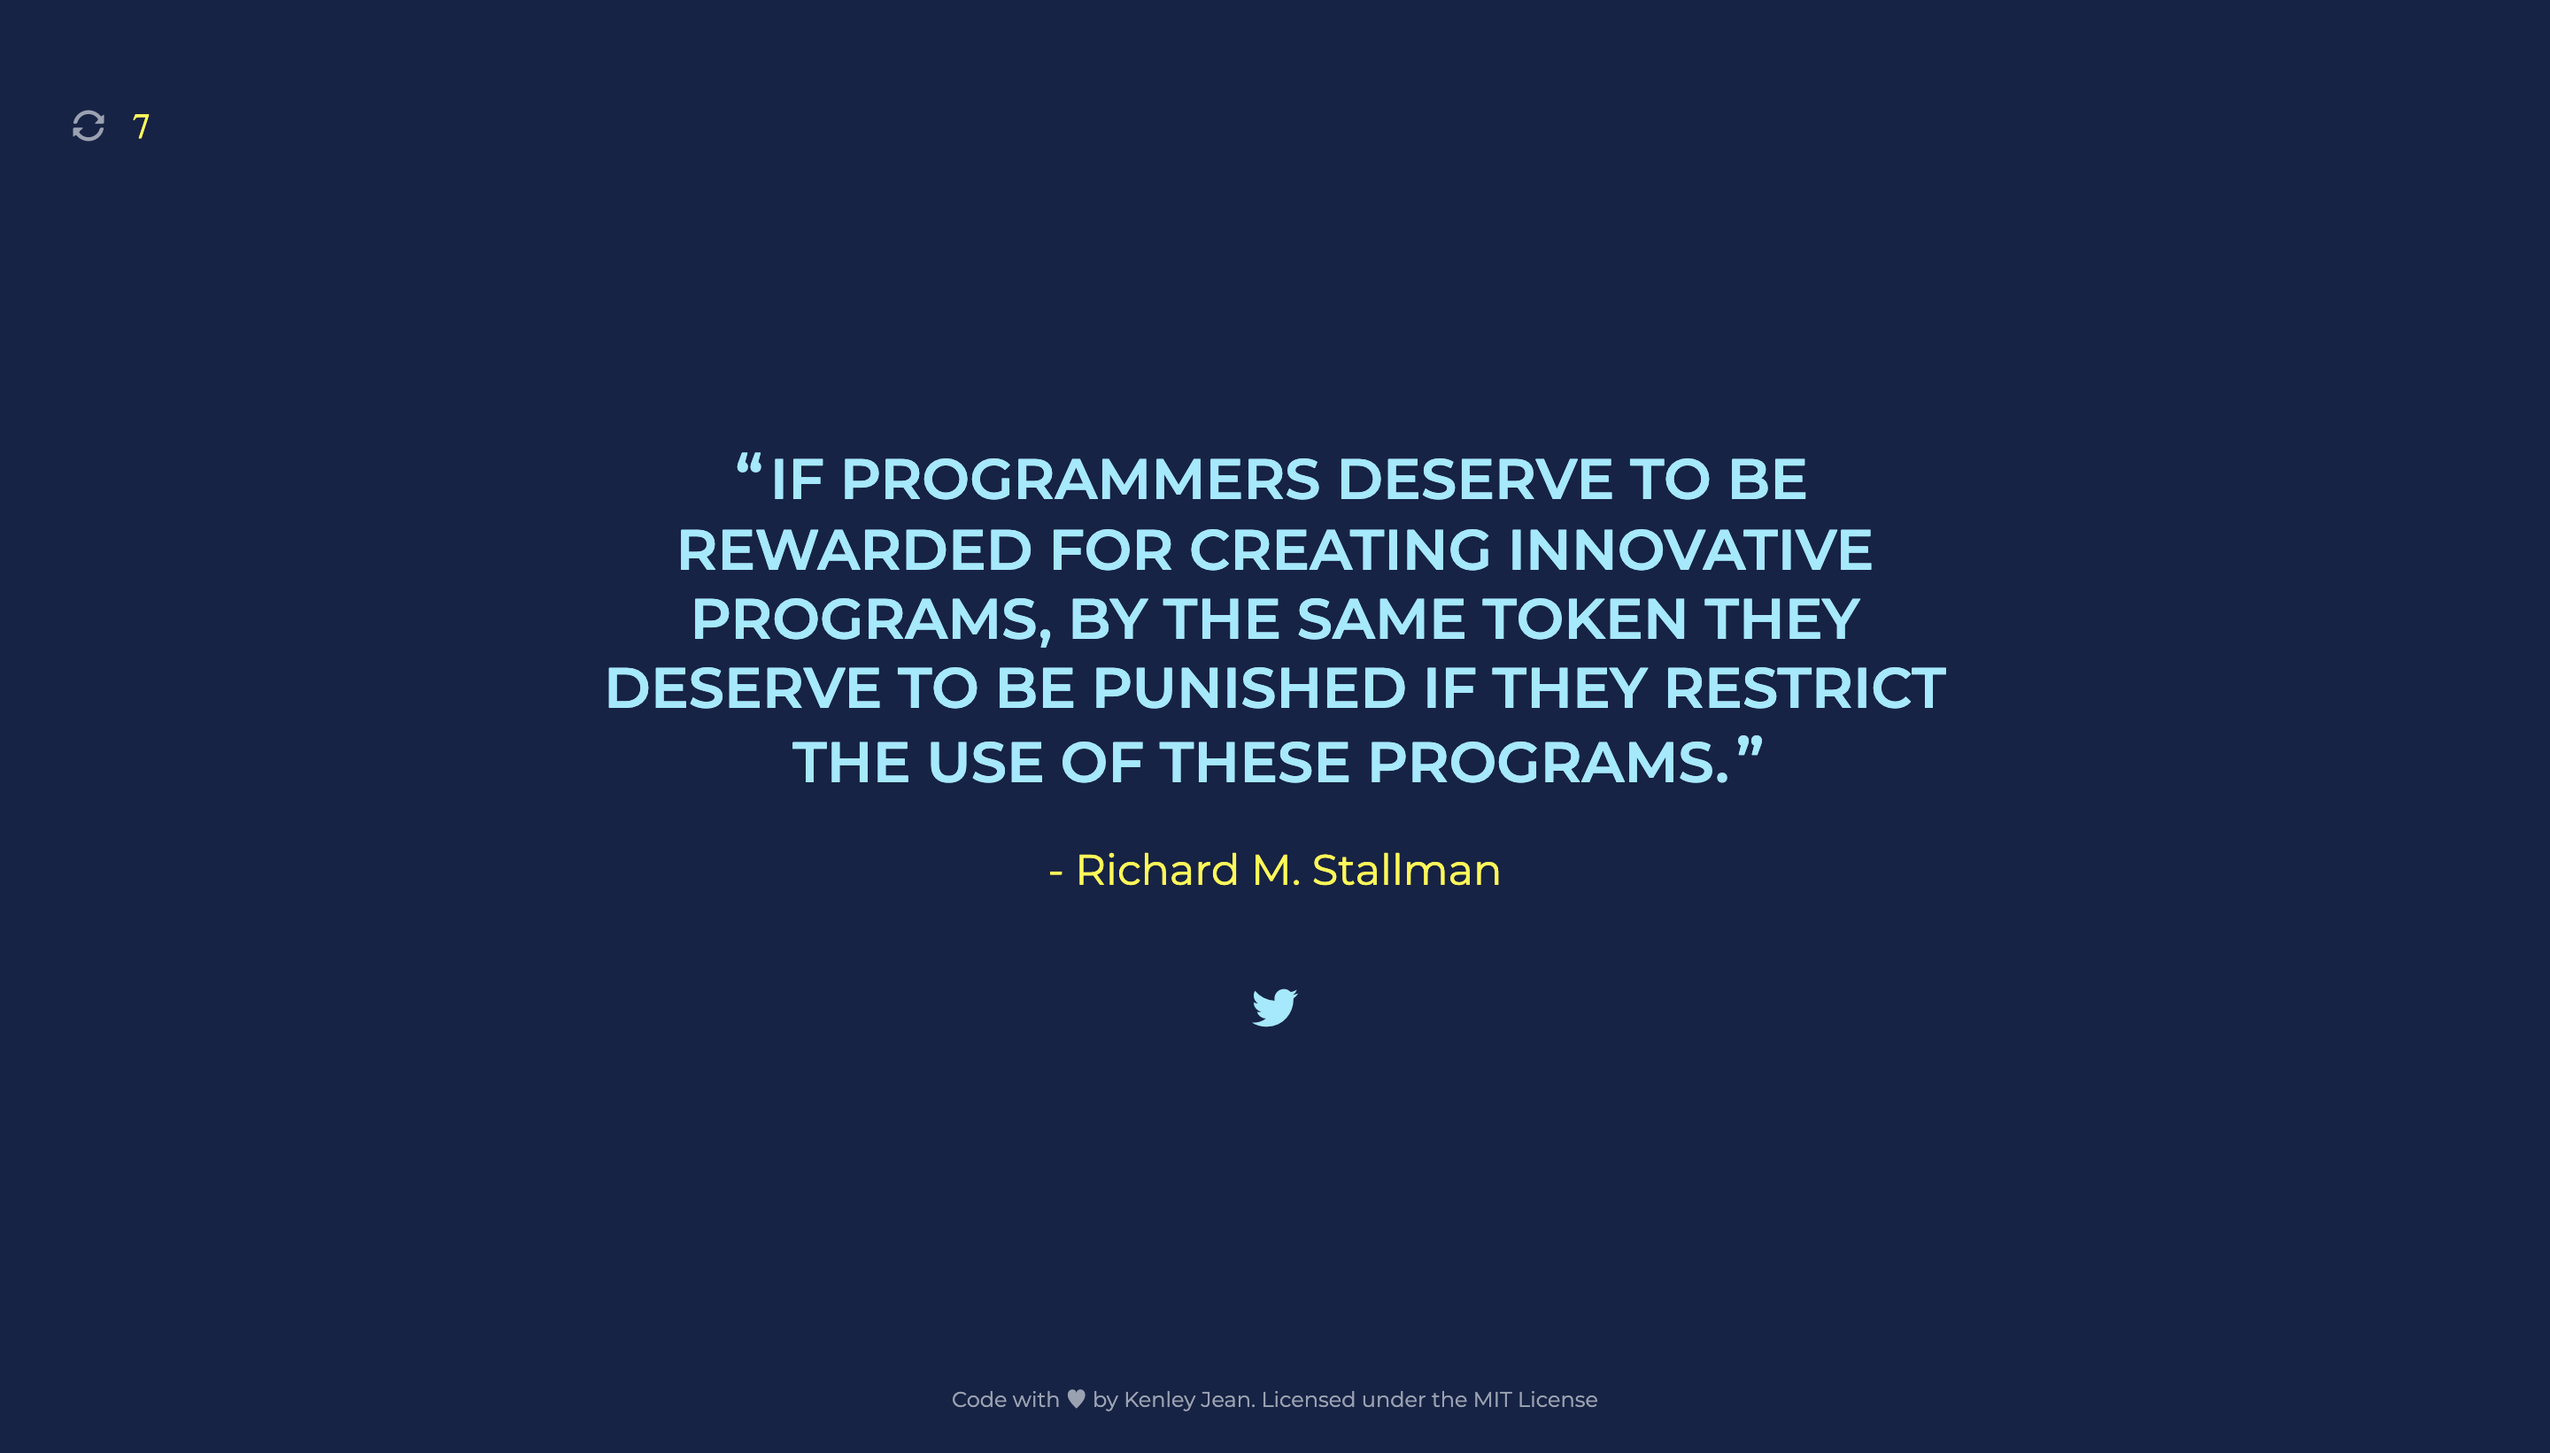
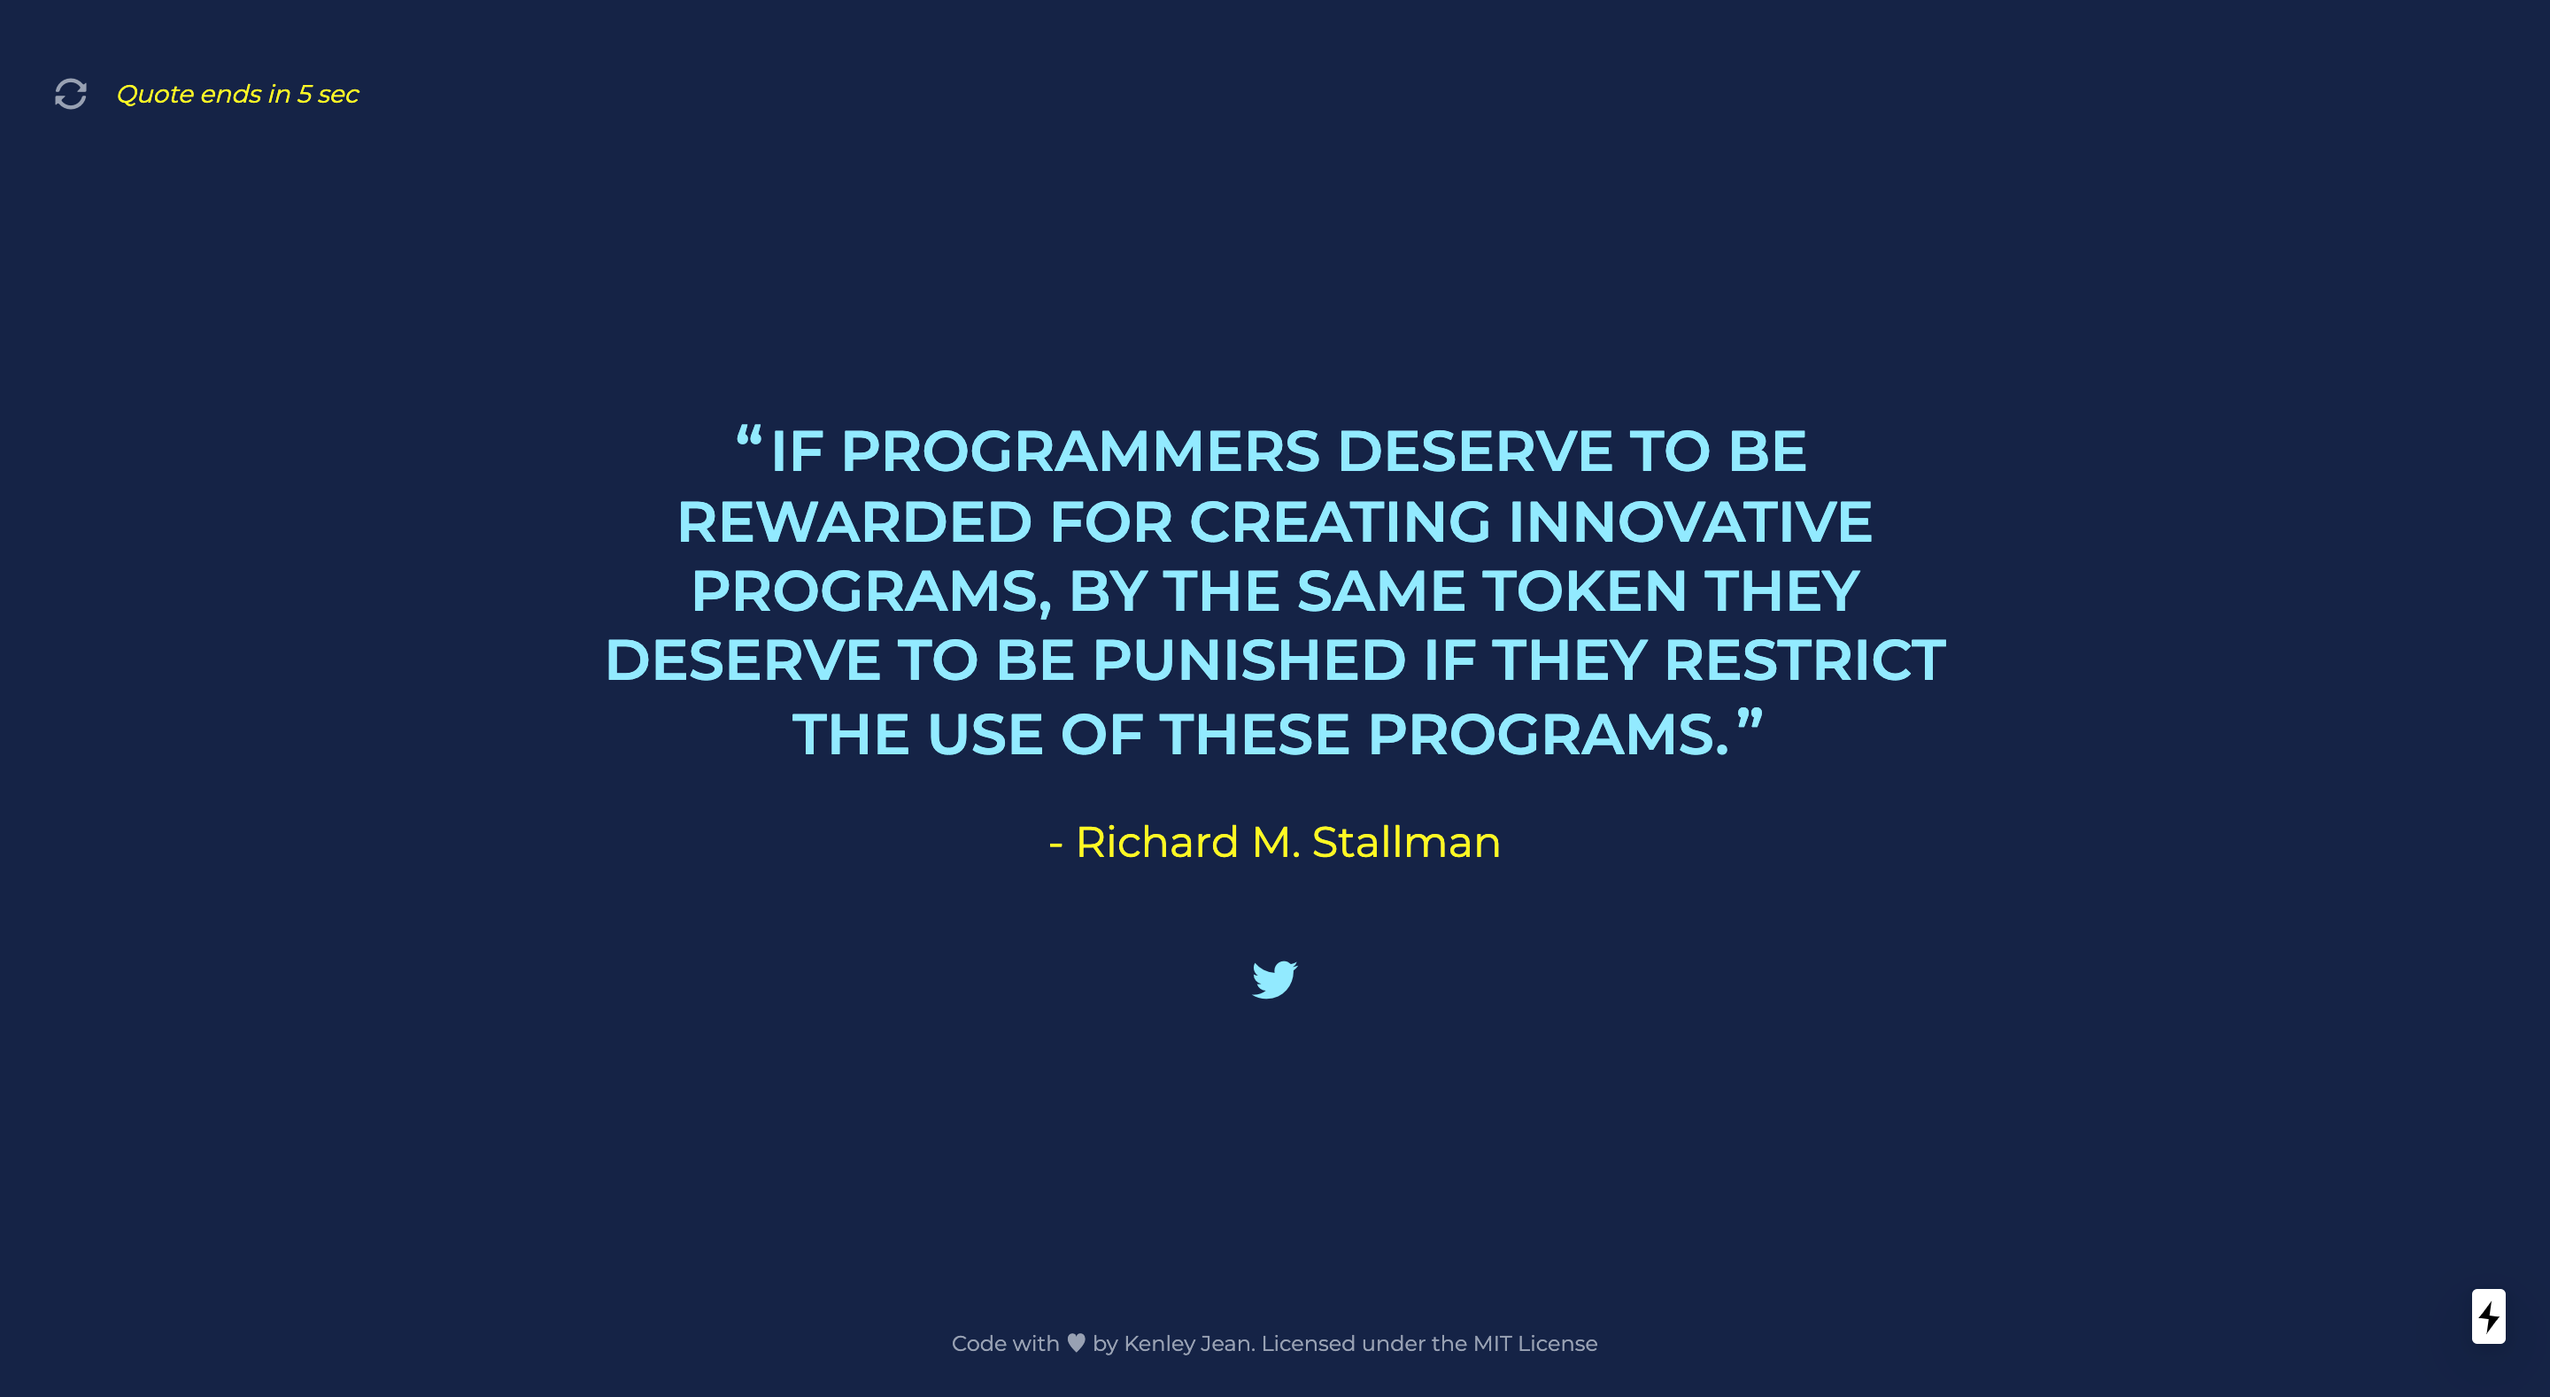
adding info to timer

diff --git a/pages/index.tsx b/pages/index.tsx
@@ -1,8 +1,8 @@
-import React, {useEffect, useState, MouseEvent} from "react";
+import React, { useEffect, useState } from "react";
+import readingTime from "reading-time";
 import { NextPage } from "next";
 import { quotes } from "../data";
 import { useInterval } from "../hooks";
-import readingTime from "reading-time";
 
 type Quote = {
   text: string;
@@ -39,21 +39,21 @@ const Home: NextPage = (): JSX.Element => {
   }, 1000);
 
   const readingEstimation = (): number => {
-      const { time } = readingTime(quote.text);
-      return Math.round(time / 1000);
+    const { time } = readingTime(quote.text);
+    return Math.round(time / 1000);
   };
 
   const handleRefresh = (): void => {
-      setQuote(getRandomQuote());
+    setQuote(getRandomQuote());
   };
 
   return (
     <>
       <div className="refresh">
         <a title="Refresh" onClick={handleRefresh}>
-          <i className="icofont-refresh"/>
+          <i className="icofont-refresh" />
         </a>
-        <p className="timer">{timer}</p>
+        <p className="timer">{`Quote ends in ${timer} sec`}</p>
       </div>
       <div className="container">
         <div className="quote">
@@ -65,7 +65,7 @@ const Home: NextPage = (): JSX.Element => {
               href={twitterShareUrl(quote.text, "https://hacktoberquote.com/")}
               target="_blank"
             >
-              <i className="icofont-twitter"/>
+              <i className="icofont-twitter" />
             </a>
           </div>
         </div>

diff --git a/static/css/main.css b/static/css/main.css
@@ -27,8 +27,8 @@ body {
 
 .refresh {
     position: absolute;
-    top: 40px;
-    left: 40px;
+    top: 30px;
+    left: 30px;
     cursor: pointer;
     display: flex;
     align-items: center;
@@ -42,9 +42,11 @@ body {
     color: #fff922
 }
 
-.timer{
+.timer {
+    font-family: 'Montserrat', sans-serif;
     margin-left: 15px;
-    font-size: 20px;
+    font-size: 14px;
+    font-style: italic;
     color: #fff922;
 }
 
@@ -63,7 +65,7 @@ body {
 }
 
 blockquote {
-    font-family: Montserrat, sans-serif;
+    font-family: 'Montserrat', sans-serif;
     font-weight: 600;
     padding: 10px;
     font-size: 2rem;
@@ -88,7 +90,7 @@ blockquote::after {
 
 .name {
     margin-top: 1rem;
-    font-family: Montserrat, sans-serif;
+    font-family: 'Montserrat', sans-serif;
     font-size: 1.5rem;
     font-weight: 400;
     text-align: center;
@@ -117,7 +119,7 @@ blockquote::after {
 }
 
 footer {
-    font-family: Montserrat, sans-serif;
+    font-family: 'Montserrat', sans-serif;
     position: fixed;
     bottom: 10px;
     width: 100%;

diff --git a/README.md b/README.md
@@ -1,8 +1,6 @@
 <p align="center">
  <h1 align="center">HacktoberQuote</h1>
-
 <img align="center"  src="https://github.com/ThalKod/hacktoberquote/blob/feature/dynamic_quote_timer/HacktoberQuote_preview.png">
- Sharing programming quotes about open source and team collaboration.
 </p>
 
 **Quotes about open source software and team collaboration. This site was built with NextJS, Typescript. It is hosted on Zeit and the source code is on GitHub.**
